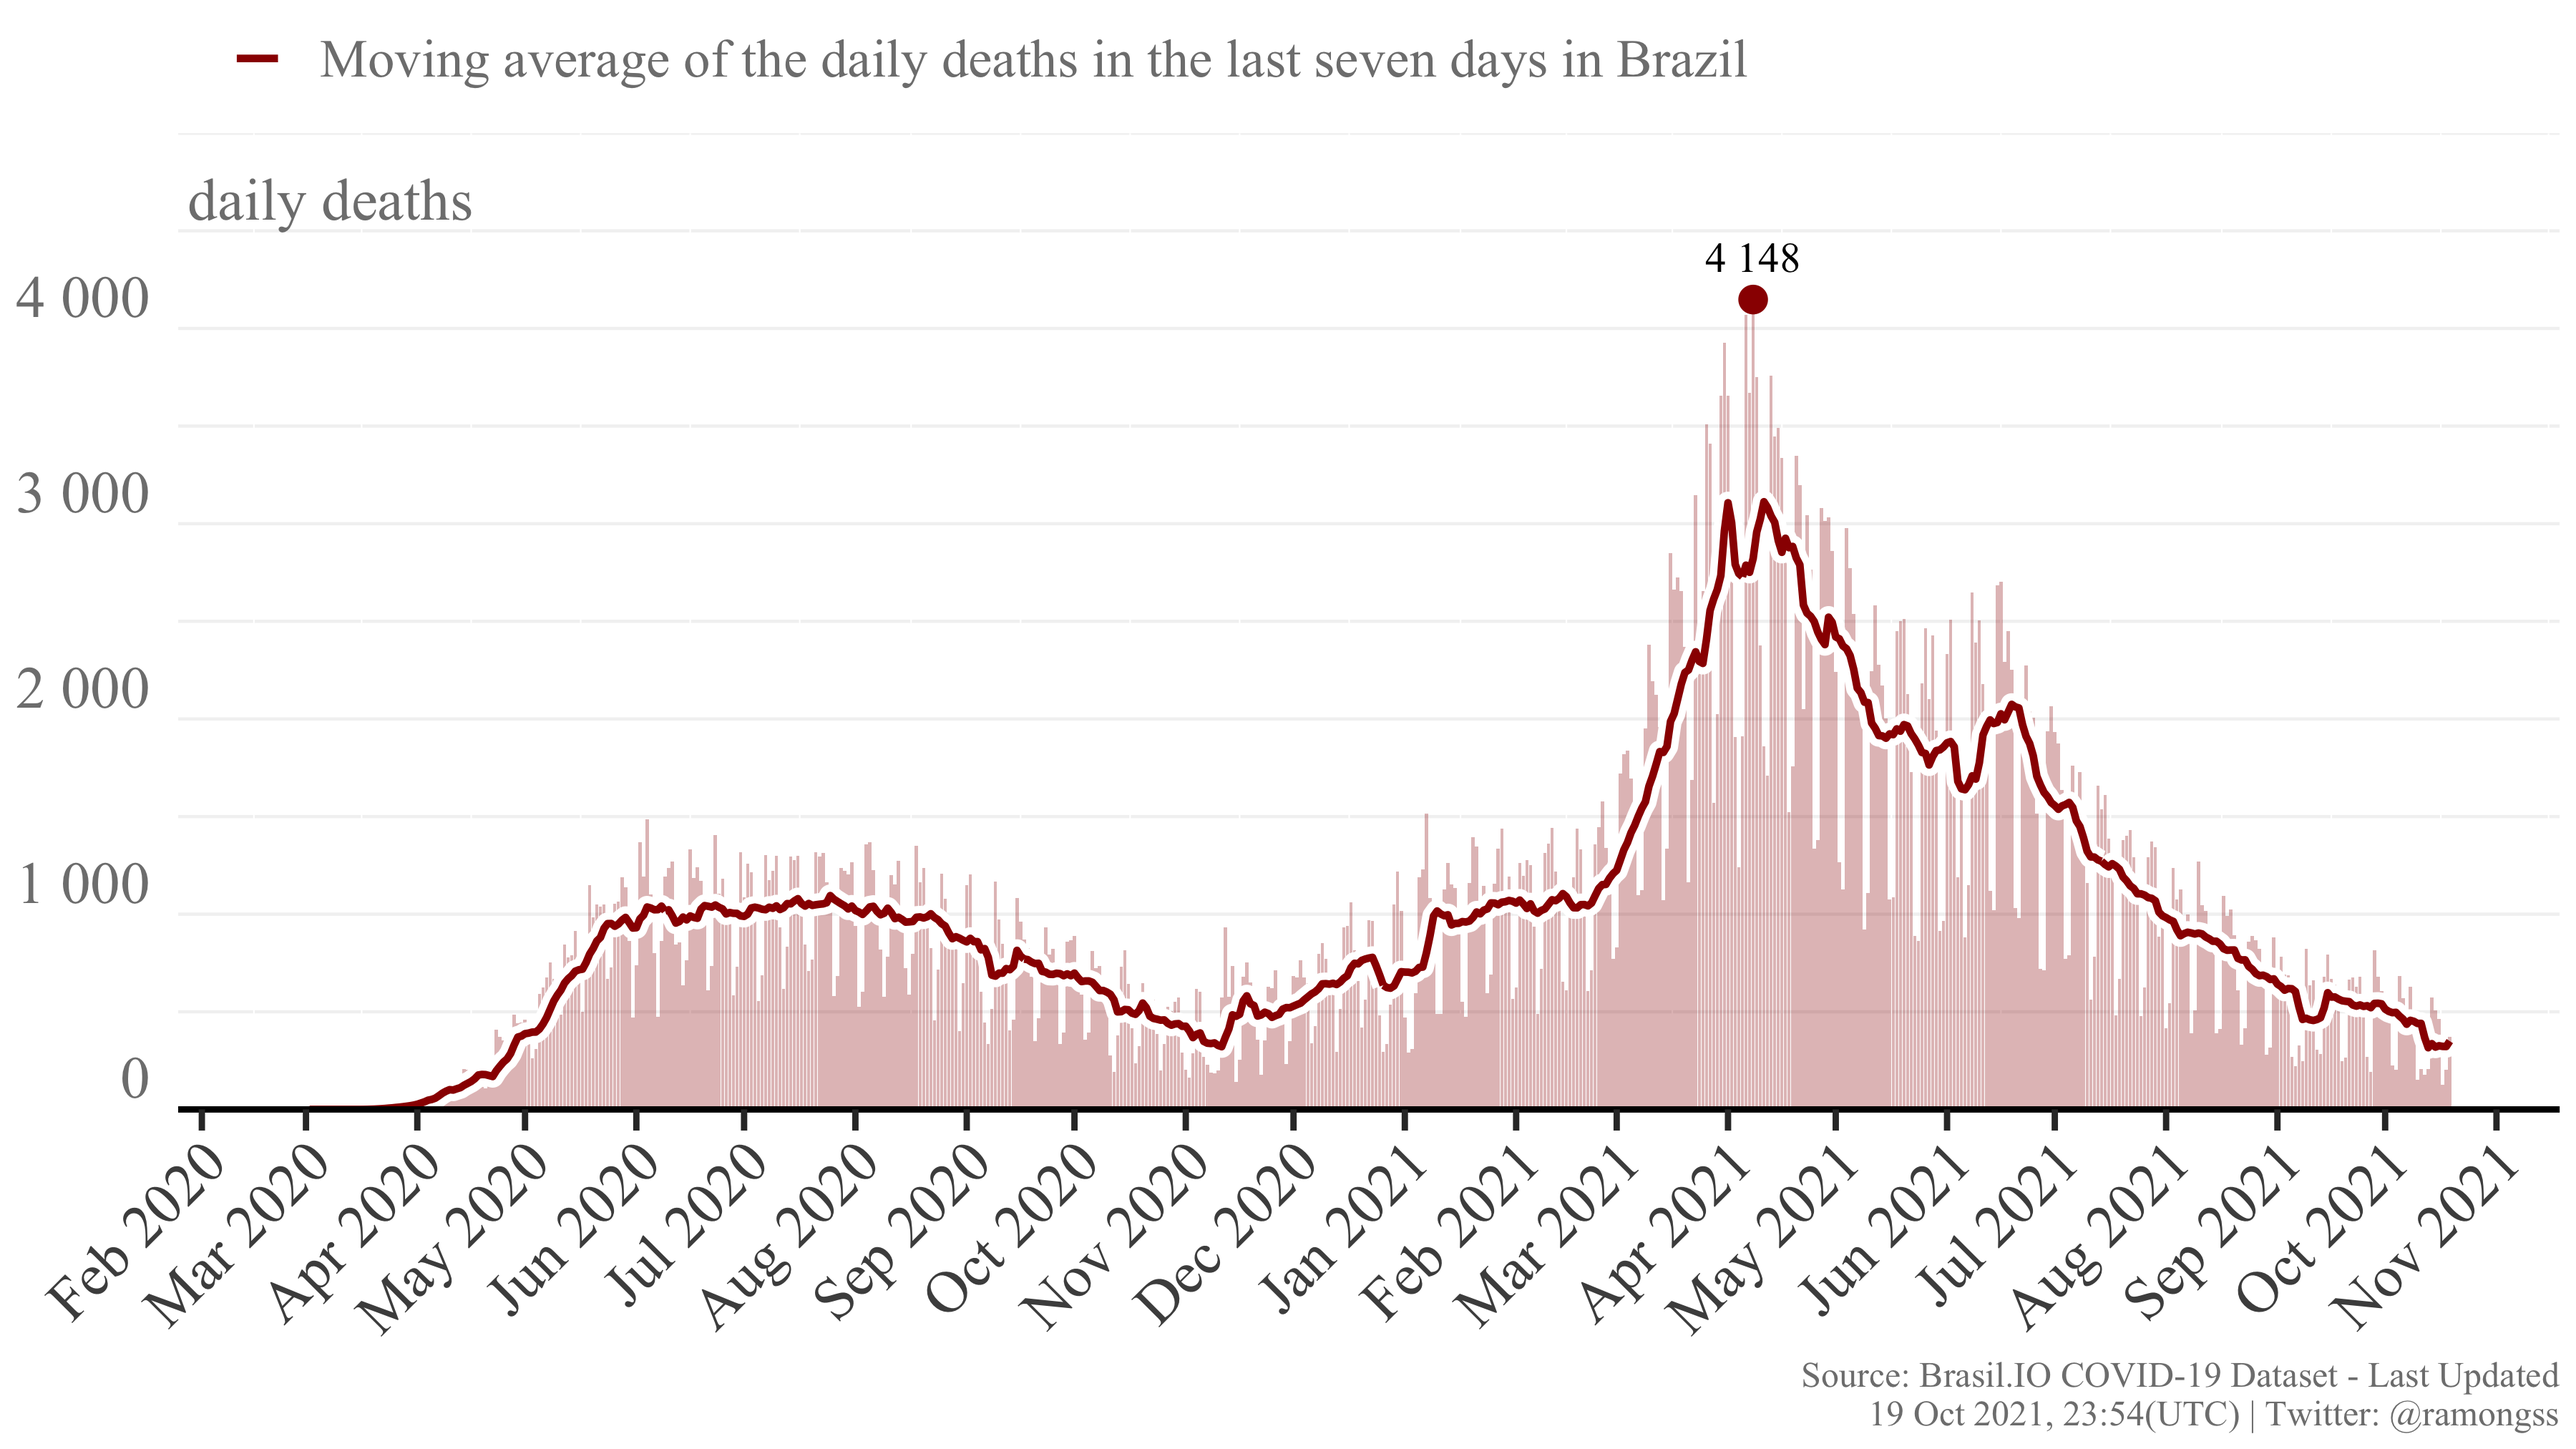
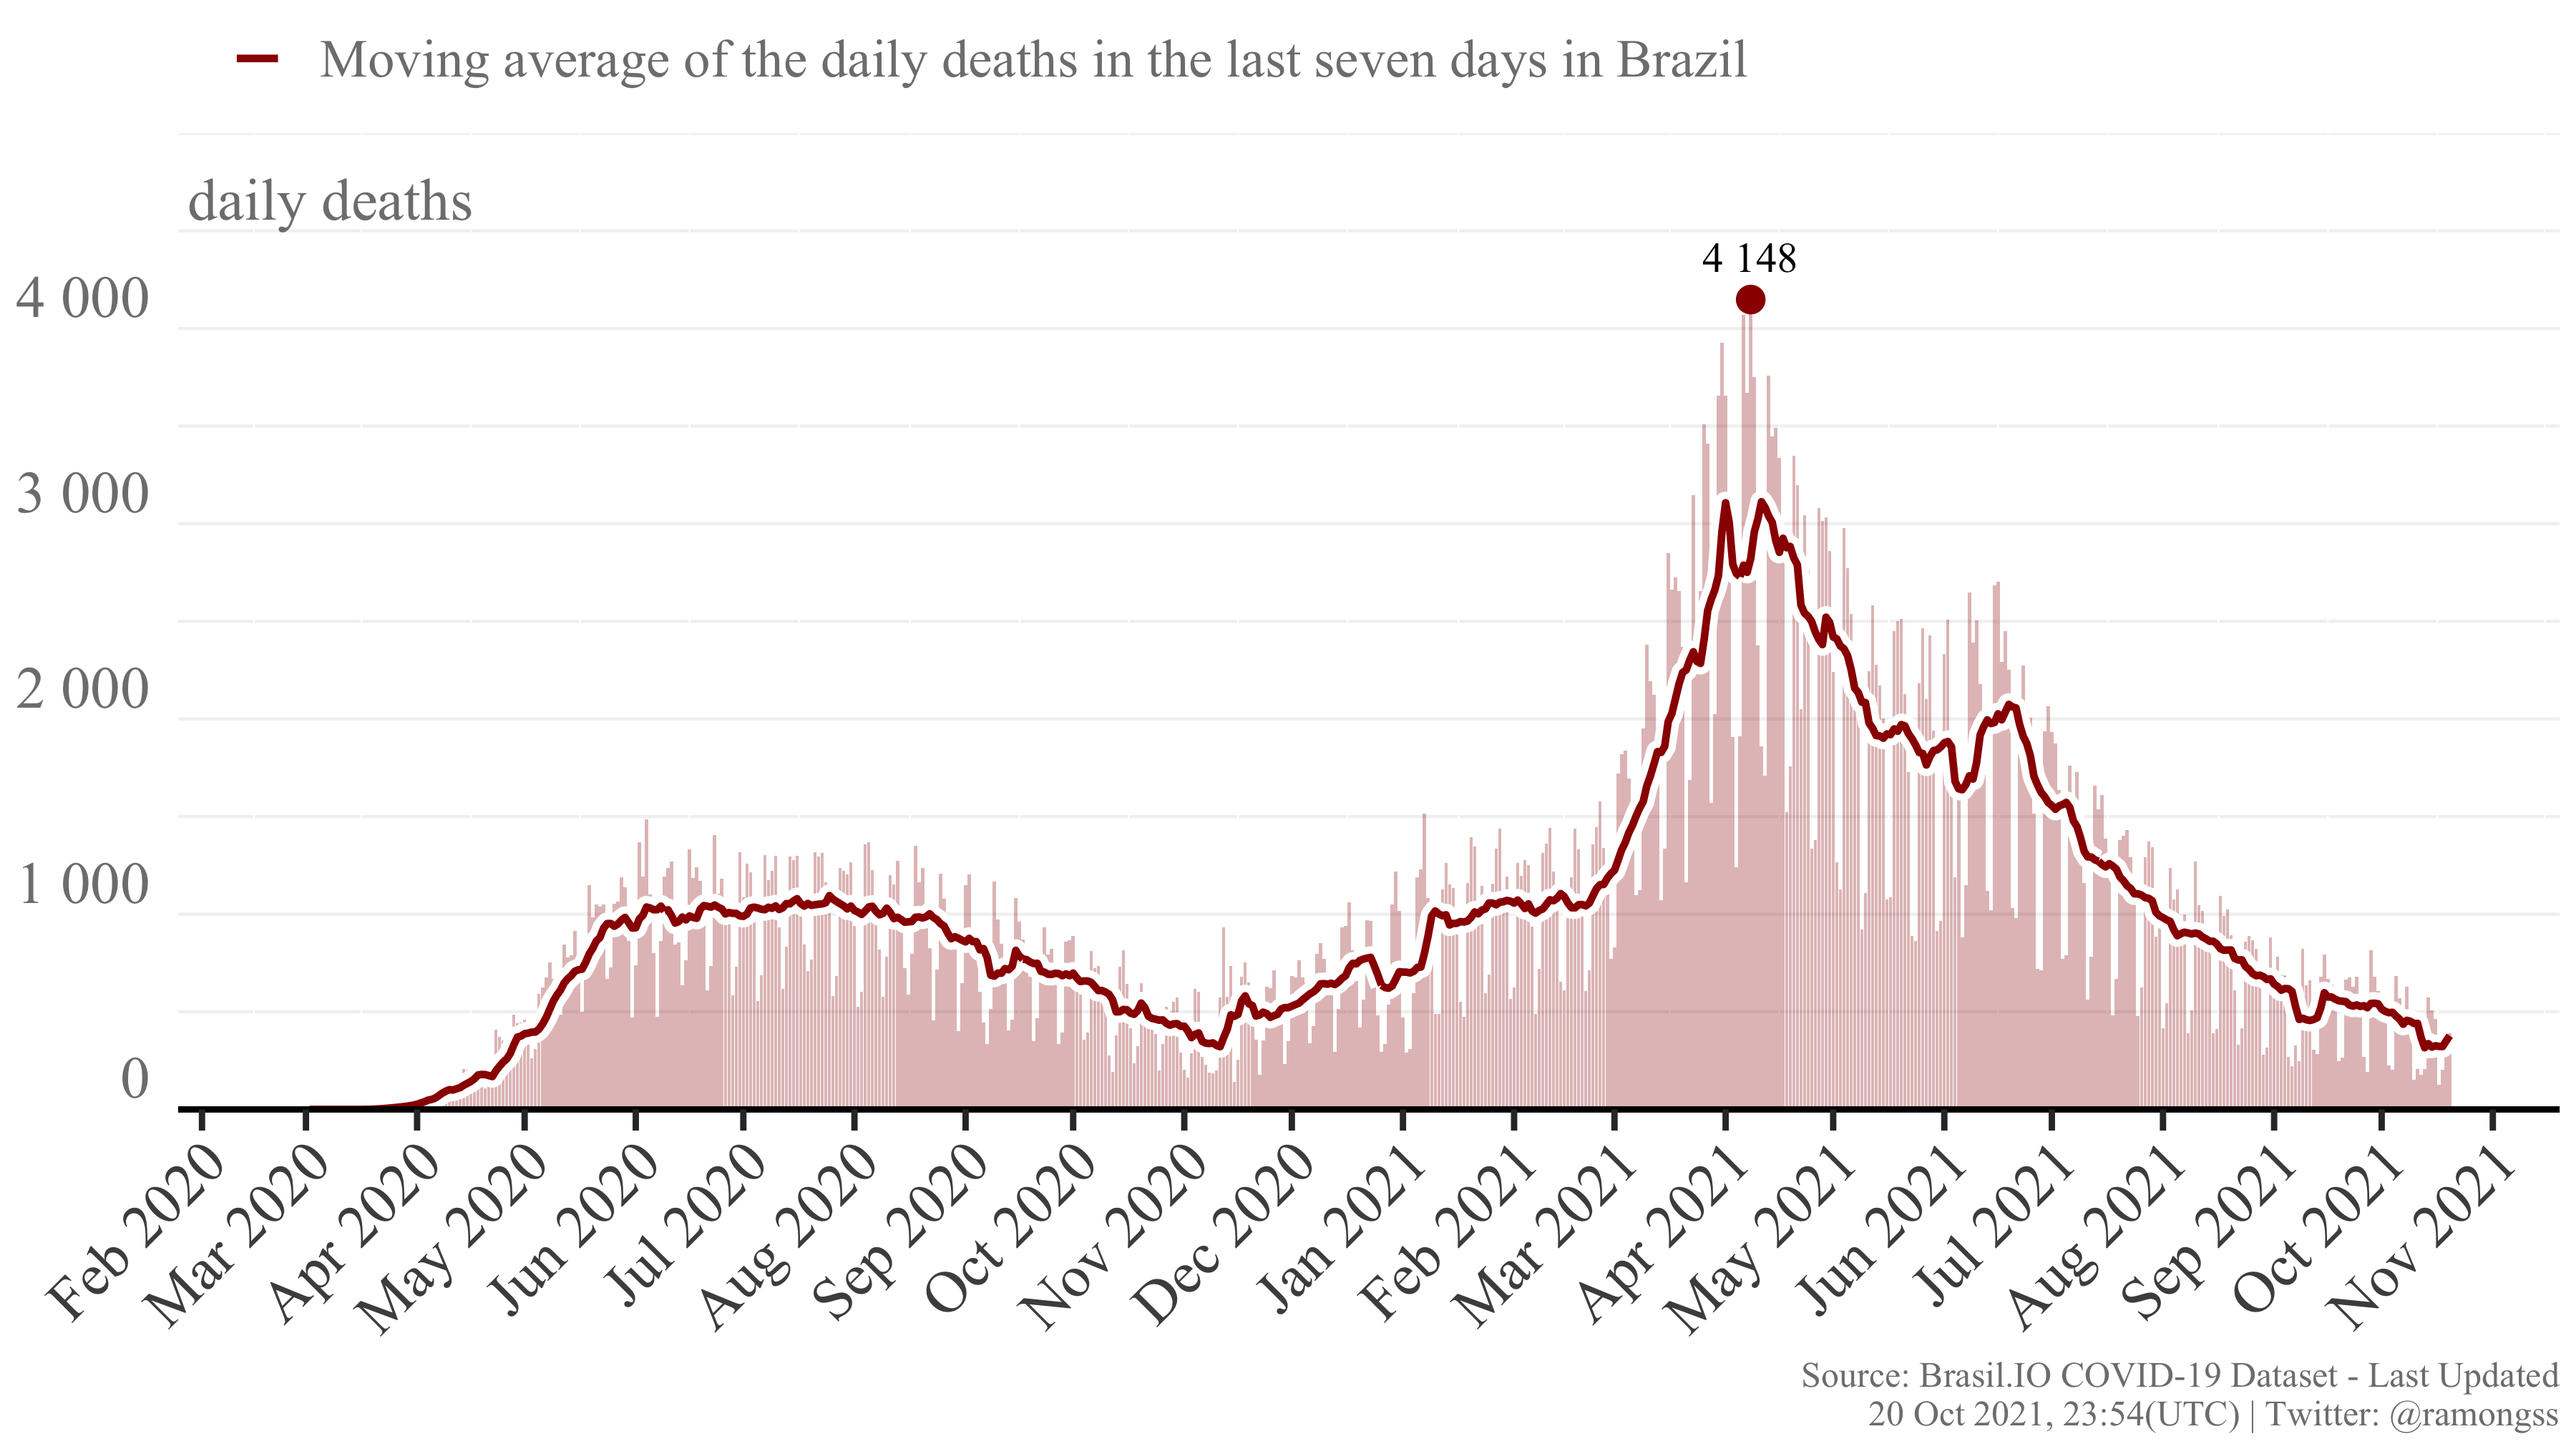
Re-build README.Rmd

diff --git a/README.md b/README.md
@@ -27,8 +27,8 @@ download_brasilio_table <- function(dataset = "covid19", table_name){
 
 ## COVID-19 Confirmed cases
 
-Currently, Brazil has a total of **21,670,772** confirmed cases at **19
-Oct, 2021**, with **12,718** new confirmed cases. The daily maximum
+Currently, Brazil has a total of **21,686,383** confirmed cases at **20
+Oct, 2021**, with **15,096** new confirmed cases. The daily maximum
 incidence was **124,878** confirmed cases at **18 Sep, 2021**. Here
 follows the Figure showing the confirmed case incidence as the bars, and
 the line as the moving average of the last 7 days.
@@ -37,8 +37,8 @@ the line as the moving average of the last 7 days.
 
 ## COVID-19 Deaths
 
-Currently, Brazil has a total of **604,118** deaths at **19 Oct, 2021**,
-with **371** new deaths. The daily maximum deaths incidence was
+Currently, Brazil has a total of **604,516** deaths at **20 Oct, 2021**,
+with **391** new deaths. The daily maximum deaths incidence was
 **4,148** deaths at **08 Apr, 2021**. Here follows the Figure showing
 the deaths incidence as the bars, and the line as the moving average of
 the last 7 days.
@@ -49,4 +49,4 @@ the last 7 days.
 
 This page is daily updated automatically using Github Actions.
 
-*Last update: 19 Oct 2021, 23:54 (UTC).*
+*Last update: 20 Oct 2021, 23:54 (UTC).*
